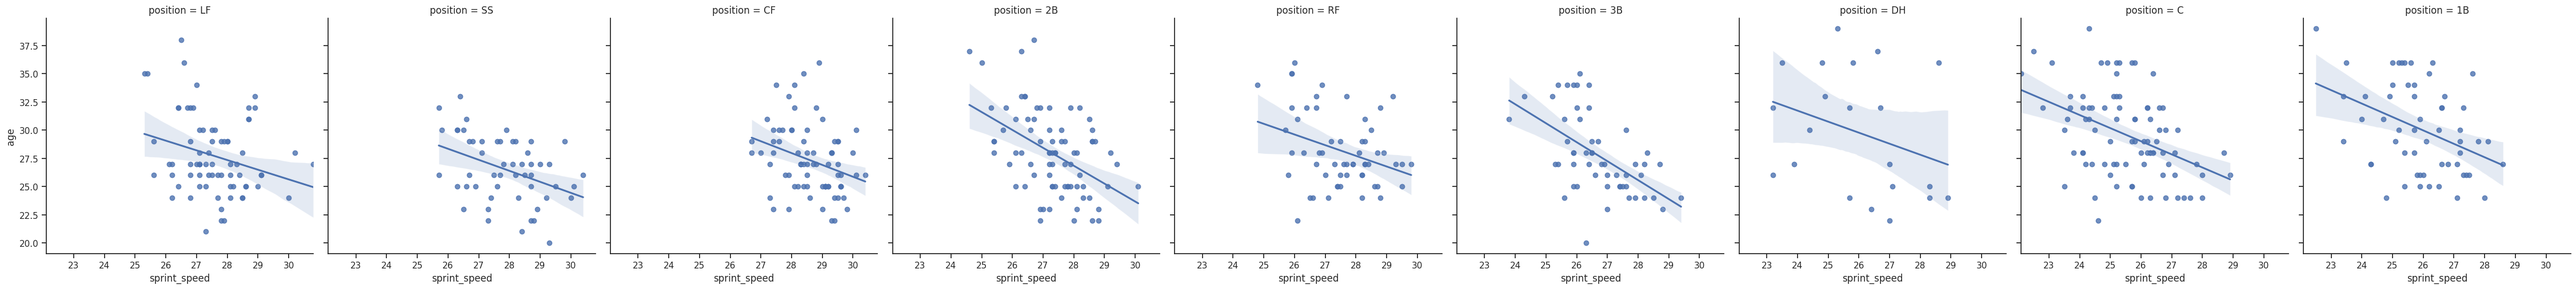
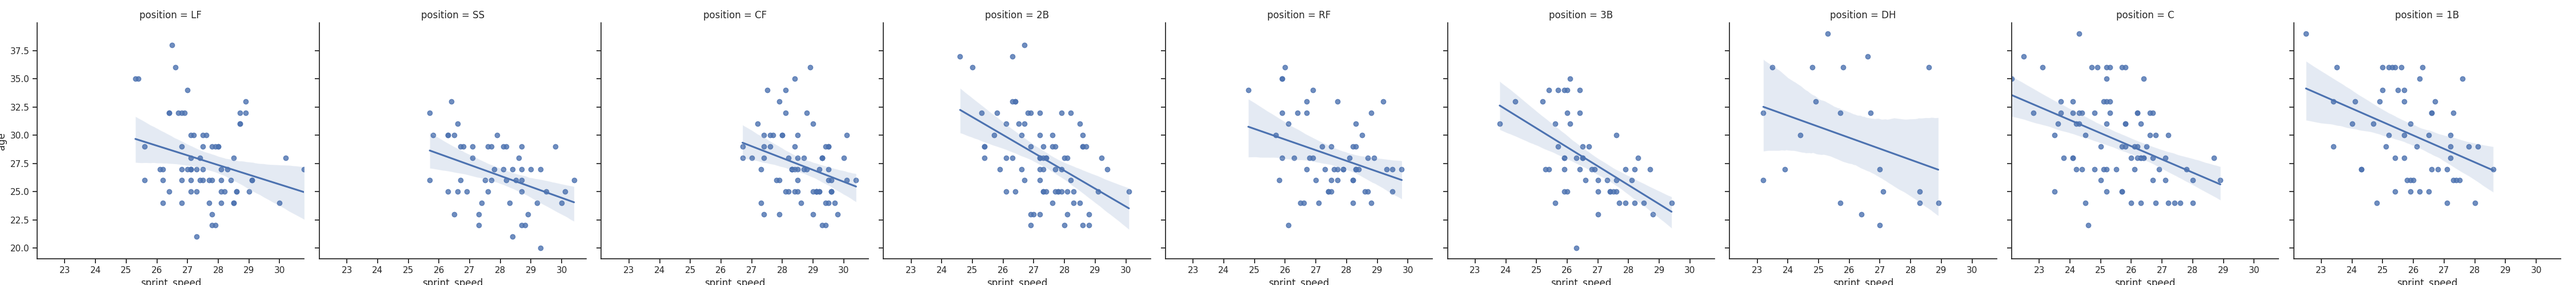
bruh

diff --git a/erics_gui.py b/erics_gui.py
@@ -2,6 +2,7 @@
 from tkinter import *
 import tkinter.ttk
 import subprocess
+from PIL import ImageTk, Image
 
 window = Tk()
 my_map = {"native" : 
@@ -29,8 +30,8 @@ my_map = {"native" :
         }
 
 def execute(command):
-    subprocess.run([command], shell = True, timeout = 5)
-    subprocess.run('python3 yet_another_data.py', shell = True)
+    subprocess.call([command], shell = True, timeout = 5)
+    subprocess.call('python3 yet_another_data.py', shell = True)
     #update_graph();
     
 
@@ -176,8 +177,9 @@ tkinter.ttk.Separator(window, orient=HORIZONTAL).grid(column=0, row=2, columnspa
 tkinter.ttk.Separator(window, orient=HORIZONTAL).grid(column=0, row=3, columnspan=3, sticky='ews')
 tkinter.ttk.Separator(window, orient=HORIZONTAL).grid(column=0, row=4, columnspan=3, sticky='ews')
 
-
-
-
+#Put pic on GUI
+img = ImageTk.PhotoImage(Image.open('test_pic.png'))
+panel = Label(window, image = img)
+panel.grid(row = 0, column = 6, sticky='w', rowspan = 50, columnspan = 50)
 
 window.mainloop()

diff --git a/yet_another_data.py b/yet_another_data.py
@@ -16,8 +16,11 @@ sprint_data = pd.read_csv("UserCode/Vincent/sprint_speed.csv")
 #root.geometry('800x600')
 
 #def graph():
-fig = plt.figure()
-sns.lmplot(x="sprint_speed", y="age", col = "position", data=sprint_data).savefig('test_pic.png')
+#fig = plt.figure()
+fig = sns.lmplot(x="sprint_speed", y="age", col = "position", data=sprint_data)
+#fig.set_size_inches(8, 6)
+plt.savefig('test_pic.png', dpi = 100)
+#image1 = Image.open()
 print('image updated')    
     #plt.show()
 
